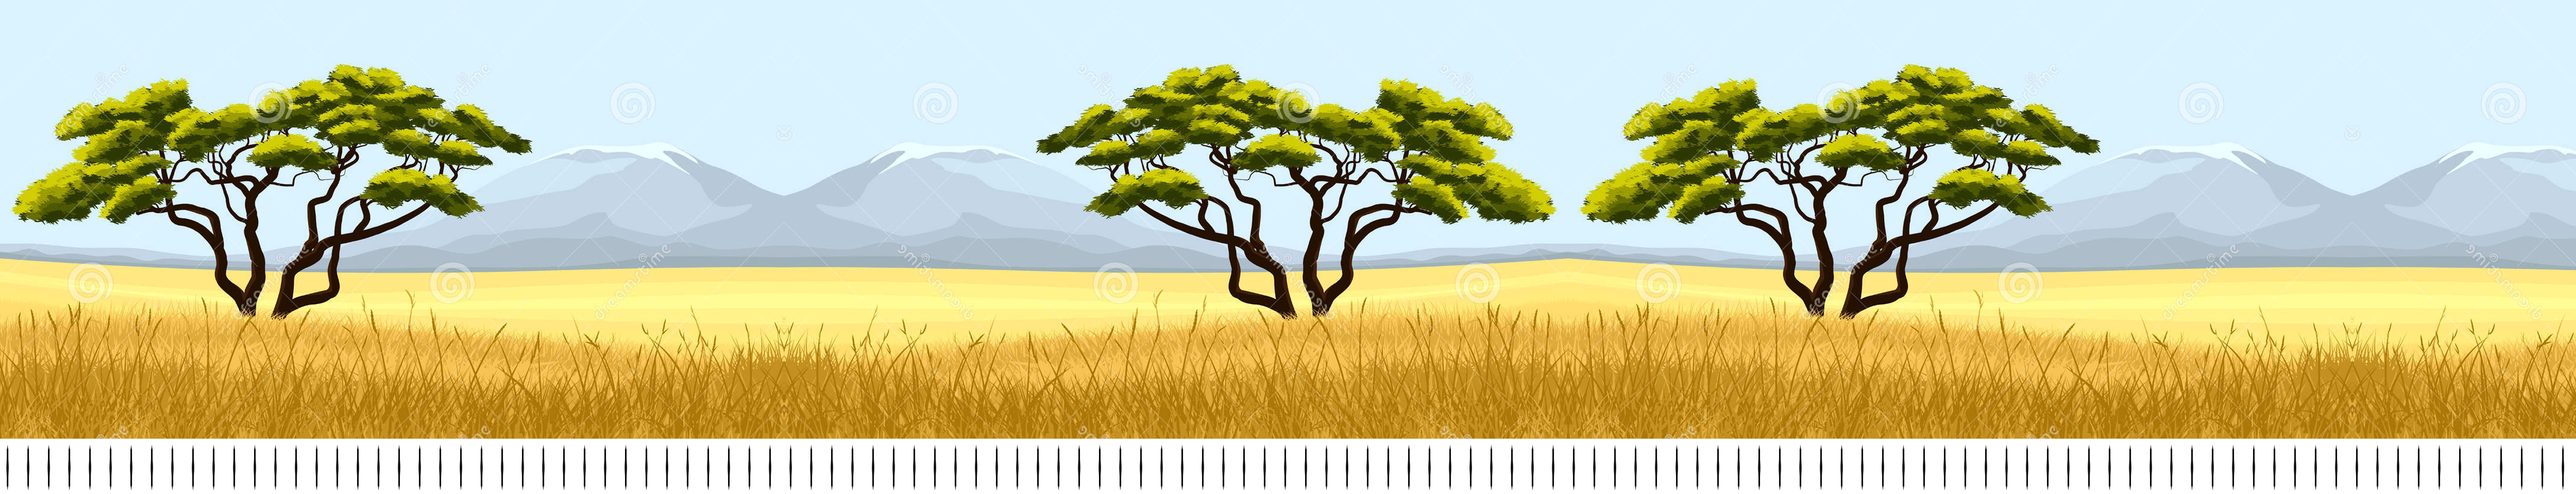
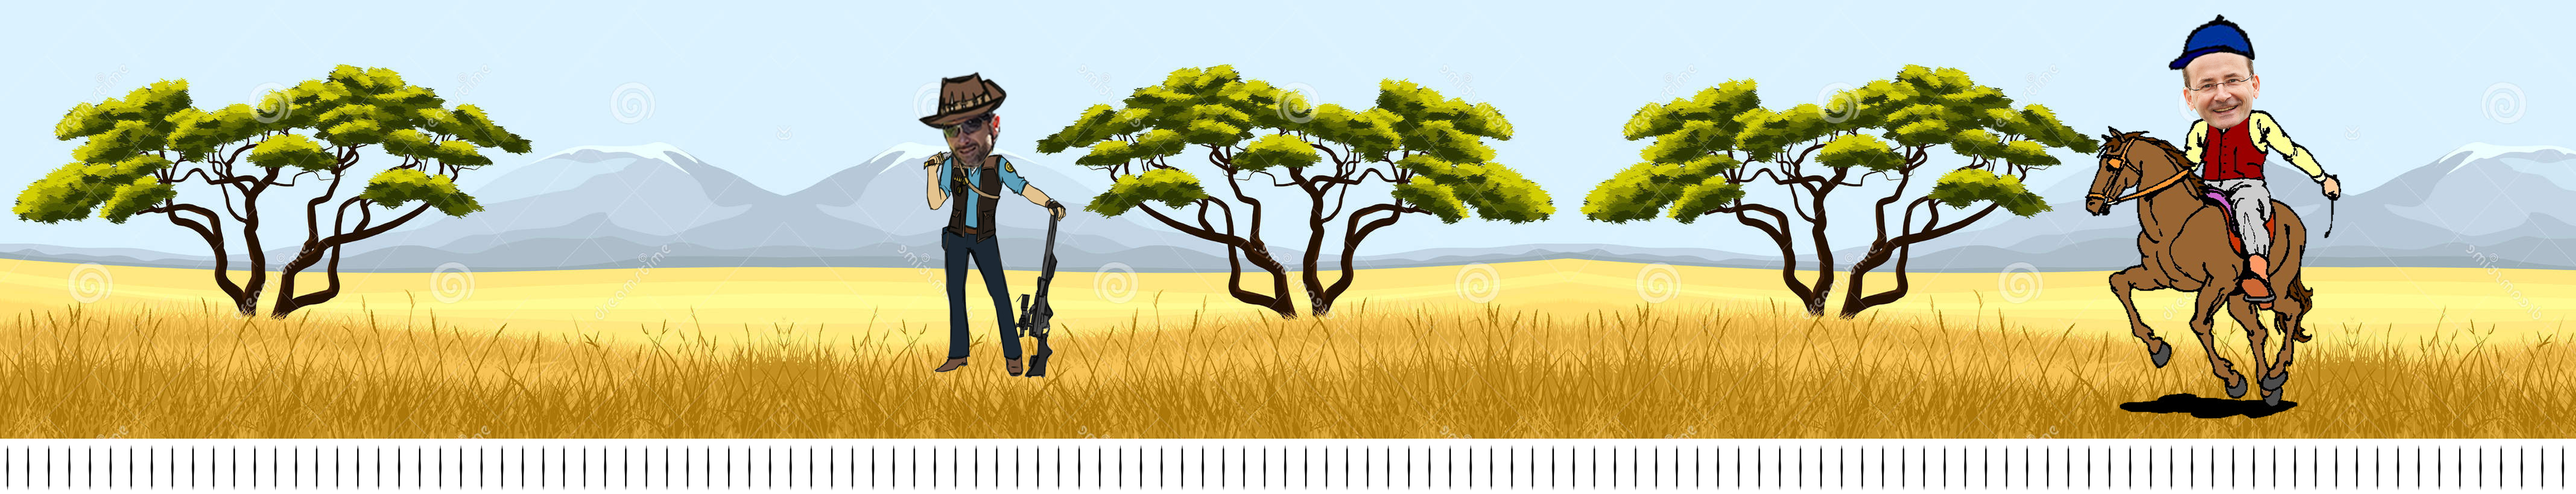
Animate cheetah and background

Changed region(s): [[0.8112, 0.0312, 0.936, 0.8438], [0.3432, 0.1562, 0.4368, 0.7812]]

diff --git a/src/main/webapp/js/script.js b/src/main/webapp/js/script.js
@@ -1,22 +1,38 @@
-var CONSTANT_RUN = 400;
-
-
-Cheetah = function(name, imageSource) {
+Cheetah = function(name, imageSources) {
   this.name = name;
   this.image = new Image();
-  this.image.src = imageSource;
-  this.stepSize = 10;
-  this.posX = 10;
-  this.posY = 800;
+  this.imagePos = 0;
+  this.image.src = imageSources[this.imagePos];
+  this.stepSize = 100;
+  this.height = 250;  // Cheetah size
+  this.width = this.image.width / this.image.height * this.height
+  this.posX = 0;
+  this.posY = 960 - this.height - 120;
   this.distance = this.posX;
   this.lastkey;
 
   this.run = function(evt) {
-    if (this.posX + this.stepSize < CONSTANT_RUN) {
+    // Move Cheetah on screen
+    if (this.posX + this.stepSize <= CONSTANT_RUN || this.distance >= FINAL_SPURT) {
       this.posX += this.stepSize;
     }
+
+    // Distance Cheetah has run.
     this.distance += this.stepSize;
     this.lastkey = evt.key;
+
+    // Rotate images
+    if (this.imagePos < imageSources.length - 1) {
+      this.imagePos += 1;
+    } else {
+      this.imagePos = 0;
+    }
+    this.image.src = imageSources[this.imagePos];
+
+    // End the game
+    if (this.posX + this.width > CANVAS_WIDTH) {
+      stopGame();
+    }
   }
 
   window.onkeypress = this.run.bind(this);
@@ -34,27 +50,40 @@ Canvas = function(canvasElement, bgImage, cheetah) {
   this.bubble = function() {
     this.ctx.font = "30pt Arial";
     this.ctx.fillStyle = "#f7f7f4";
-    if (cheetah.lastkey)
-      this.ctx.fillText(cheetah.lastkey, this.cheetah.posX + 30, this.cheetah.posY - 30);
+//    if (cheetah.lastkey)
+//      this.ctx.fillText(cheetah.lastkey, this.cheetah.posX + 30, this.cheetah.posY - 30);
+    this.ctx.fillText(cheetah.posX + " " + cheetah.distance, this.cheetah.posX + 30, this.cheetah.posY - 30);
   }
 
   this.draw = function() {
     this.ctx.clearRect(0, 0, this.width, this.height); // Clear Canvas
 
-    if (cheetah.distance < CONSTANT_RUN) {
+    if (this.cheetah.distance < CONSTANT_RUN) {
       this.ctx.drawImage(this.background, 0, 0);
+    } else if (this.cheetah.distance + this.width < this.background.width) {
+      this.ctx.drawImage(this.background, this.cheetah.distance - CONSTANT_RUN, 0, this.width, this.height, 0, 0, this.width, this.height);
     } else {
-      this.ctx.drawImage(this.background, cheetah.distance, 0, this.width, this.height, 0, 0, this.width, this.height);
+      this.ctx.drawImage(this.background, this.background.width - this.width - CONSTANT_RUN, 0, this.width, this.height, 0, 0, this.width, this.height)
     }
 
     this.bubble();
-    this.ctx.drawImage(this.cheetah.image, this.cheetah.posX, this.cheetah.posY);
+    this.ctx.drawImage(this.cheetah.image, this.cheetah.posX, this.cheetah.posY, this.cheetah.width, this.cheetah.height);
   }
 
   window.focus();
-  setInterval(this.draw.bind(this), 30);
+  this.animate = setInterval(this.draw.bind(this), 30);
+}
+
+var stopGame = function() {
+  window.onkeypress = null;
+  clearInterval(canvas.animate);
 }
 
 
-cheetah = new Cheetah("Gepardec", "images/cheetah.png");
+cheetah = new Cheetah("Gepardec", ["images/cheetah_run01.png", "images/cheetah_run02.png"]);
 canvas = new Canvas("cheetah-track", "images/steppe.png", cheetah);
+
+var CONSTANT_RUN = 400;
+var FINAL_SPURT = canvas.background.width - canvas.width;
+var CANVAS_WIDTH = canvas.width;
+var TOTAL_DISTANCE = canvas.background.width;

diff --git a/src/main/webapp/index.html b/src/main/webapp/index.html
@@ -8,7 +8,7 @@
 
 <body>
   <p>Please any key to move the cheetah.</p>
-  <canvas id="cheetah-track" width="1200" height="960">
+  <canvas id="cheetah-track" width="1600" height="960">
     Glory to HTML5 Canvas!
   </canvas>
   <script type="text/javascript" src="js/script.js"></script>
